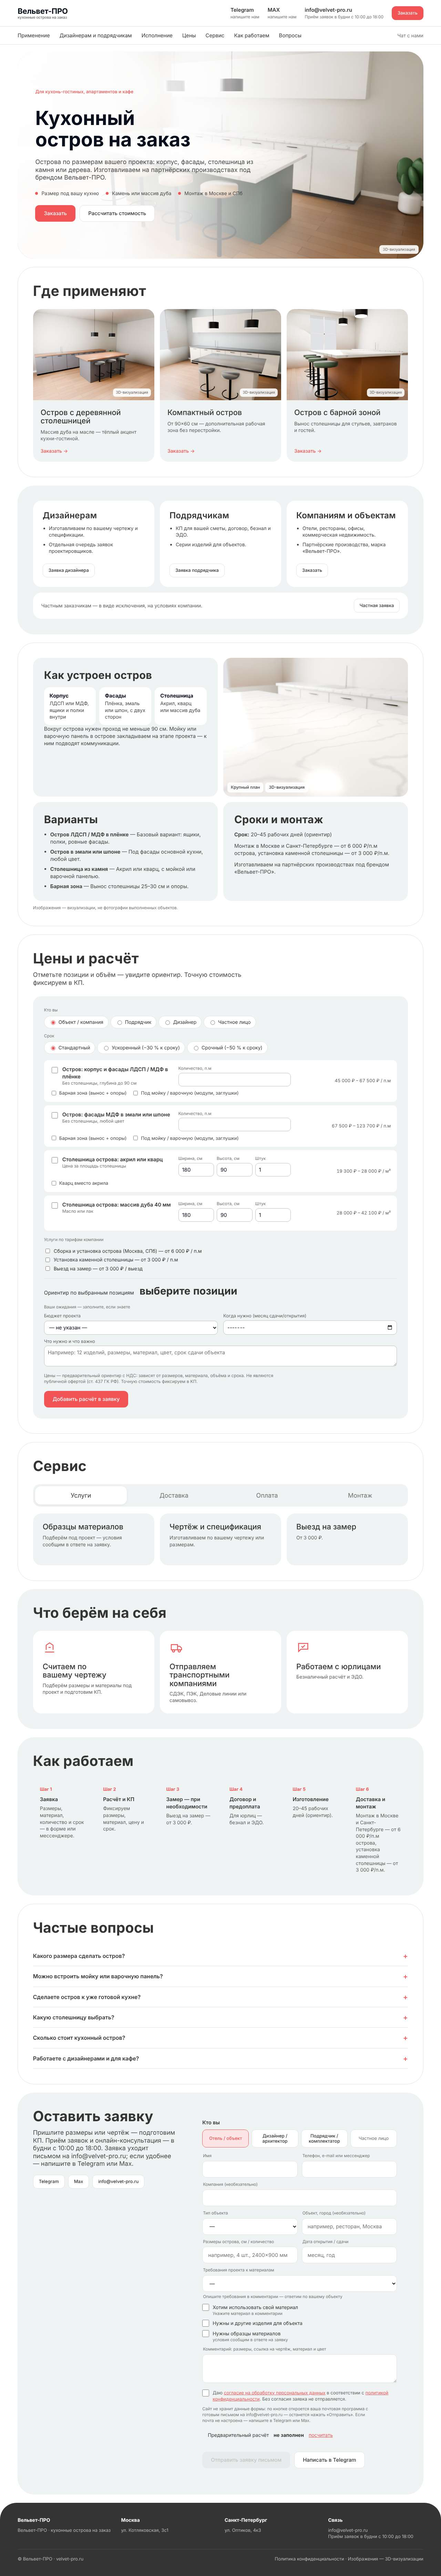
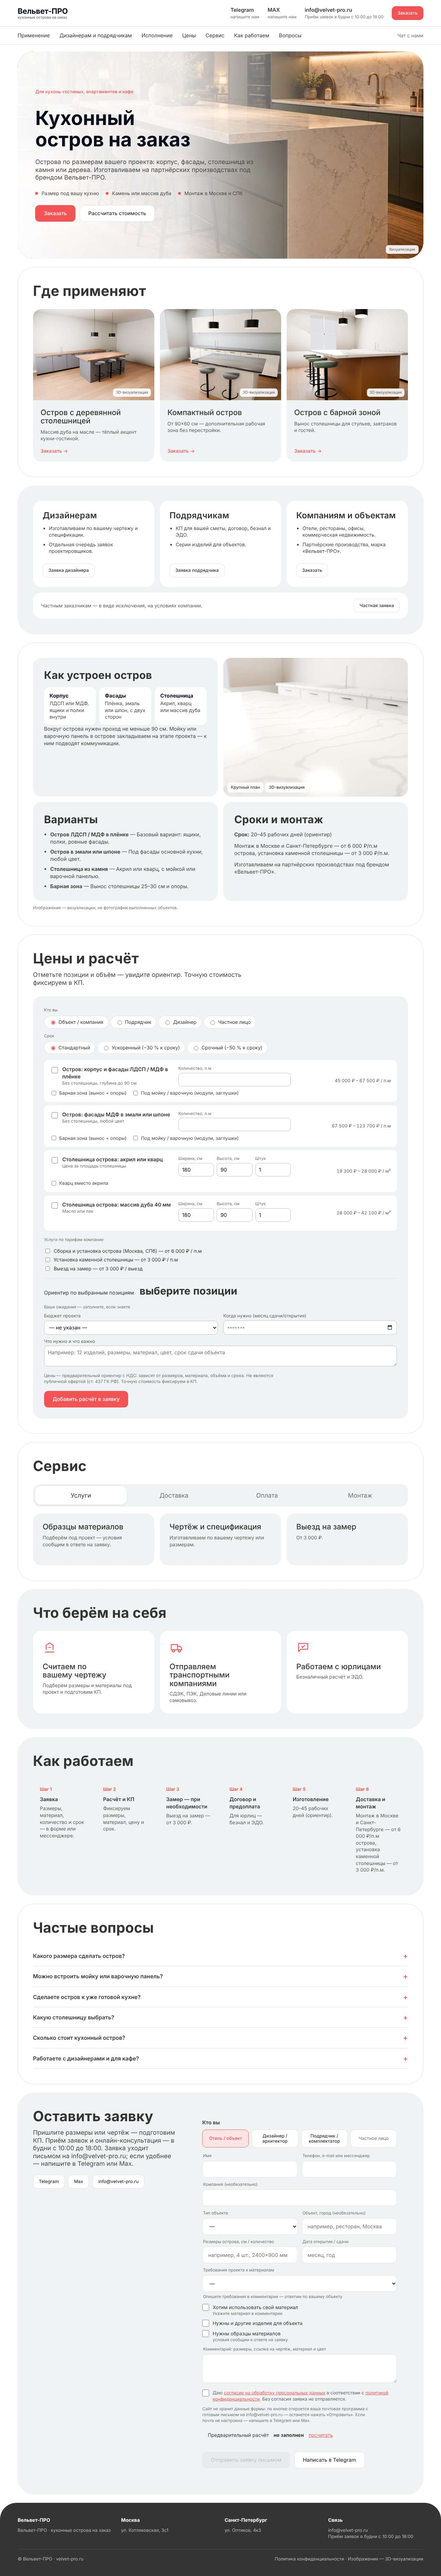
AI-визуализации: искусственный камень (5), кухонный остров (hero)

Changed region(s): [[0.3438, 0.0, 0.9688, 0.1249]]

diff --git a/stoleshnica-iz-iskusstvennogo-kamnya/index.html b/stoleshnica-iz-iskusstvennogo-kamnya/index.html
@@ -406,15 +406,15 @@ section.grey .vp-row{background:var(--g100,#F0F3F4)}
  <div class="head-row"><div><h2>Где применяют</h2></div></div>
  <div class="segs segs3">
  <a class="seg" href="#lead" data-type="object" data-goal="w1_cta_solutions">
-  <div class="ph"><img src="../img/ik-island.jpg" width="1120" height="840" alt="Кухонные острова — 3d-визуализация" loading="lazy"><span class="viz">3D-визуализация</span></div>
+  <div class="ph"><img src="../img/ai-ik-island.jpg" width="1200" height="896" alt="Кухонные острова — визуализация" loading="lazy"><span class="viz">Визуализация</span></div>
   <div class="tx"><h3>Кухонные острова</h3><p>Цельная столешница с мойкой, варочной панелью или барным выносом.</p><span class="go">Заказать →</span></div>
  </a>
  <a class="seg" href="#lead" data-type="object" data-goal="w1_cta_solutions">
-  <div class="ph"><img src="../img/ik-vanity.jpg" width="1120" height="840" alt="Санузлы — 3d-визуализация" loading="lazy"><span class="viz">3D-визуализация</span></div>
+  <div class="ph"><img src="../img/ai-ik-vanity.jpg" width="1200" height="896" alt="Санузлы — визуализация" loading="lazy"><span class="viz">Визуализация</span></div>
   <div class="tx"><h3>Санузлы</h3><p>Столешница с литой раковиной, без видимых швов.</p><span class="go">Заказать →</span></div>
  </a>
  <a class="seg" href="#lead" data-type="object" data-goal="w1_cta_solutions">
-  <div class="ph"><img src="../img/ik-reception.jpg" width="1120" height="840" alt="Ресепшен и барные стойки — 3d-визуализация" loading="lazy"><span class="viz">3D-визуализация</span></div>
+  <div class="ph"><img src="../img/ai-ik-reception.jpg" width="1200" height="896" alt="Ресепшен и барные стойки — визуализация" loading="lazy"><span class="viz">Визуализация</span></div>
   <div class="tx"><h3>Ресепшен и барные стойки</h3><p>Изогнутые формы и стойки для отелей, кафе и офисов.</p><span class="go">Заказать →</span></div>
  </a>
  </div>
@@ -443,7 +443,7 @@ section.grey .vp-row{background:var(--g100,#F0F3F4)}
     <div class="pnl"><h2>Из чего делаем</h2>
       <ul class="comp"><li><b>Акриловый камень</b>Незаметные стыки, изгибы, ремонт царапин шлифовкой</li><li><b>Кварцевый агломерат</b>Твёрже акрила, устойчив к царапинам и пятнам</li><li><b>Толщина</b>Стандарт 40 мм, по запросу до 60 мм</li></ul>
       <p>Марку и цвет камня подбираем под проект. Вырезы под мойку и варочную панель делаем на производстве по шаблону замера.</p></div>
-    <figure class="pnl-fig"><img src="../img/ik-detail.jpg" width="1120" height="840" alt="Из чего делаем — 3d-визуализация" loading="lazy"><figcaption><span class="tag">Крупный план</span><span class="tag">3D-визуализация</span></figcaption></figure>
+    <figure class="pnl-fig"><img src="../img/ai-ik-detail.jpg" width="1200" height="896" alt="Из чего делаем — визуализация" loading="lazy"><figcaption><span class="tag">Крупный план</span><span class="tag">Визуализация</span></figcaption></figure>
     <div class="pnl"><h2>Варианты</h2><ul class="opts"><li><b>Кухонная столешница</b> — Глубина 600 мм, плинтус и вырезы под технику.</li><li><b>Столешница острова или стойки</b> — Глубина и форма по проекту, считаем по площади.</li><li><b>Литая мойка или раковина</b> — Из того же камня, вклеивается без щели.</li><li><b>Матовая поверхность</b> — Меньше бликов, цена выше примерно на четверть.</li></ul></div>
     <div class="pnl"><h2>Сроки и монтаж</h2>
       <p><b>Срок:</b> 7–14 рабочих дней после замера (ориентир)</p>

diff --git a/kuhonnyy-ostrov/index.html b/kuhonnyy-ostrov/index.html
@@ -9,7 +9,7 @@
 <meta property="og:title" content="Кухонный остров на заказ — камень, дерево, бар">
 <meta property="og:description" content="Кухонные острова по размерам проекта: корпус ЛДСП, МДФ или эмаль, столешница из камня или массива, барная зона. Ориентир цены онлайн, монтаж в Москве и СПб.">
 <meta property="og:type" content="website">
-<meta property="og:image" content="../img/ko-hero.jpg">
+<meta property="og:image" content="../img/ai-ko-hero.jpg">
 <meta http-equiv="Content-Security-Policy" content="default-src 'self'; script-src 'self' 'unsafe-inline' https://mc.yandex.ru https://mc.yandex.com; connect-src 'self' https://mc.yandex.ru https://mc.yandex.com; img-src 'self' data: https://mc.yandex.ru https://mc.yandex.com; style-src 'self' 'unsafe-inline'; font-src 'self'; frame-src https://mc.yandex.ru https://mc.yandex.com; form-action 'self'; base-uri 'self'">
 <!-- Тестовая страница: noindex, без канонической ссылки (ГЕЙТ 1, решение 5). Шрифт — системный стек, IP посетителя не уходит за рубеж (legal.md) -->
 
@@ -382,8 +382,8 @@ section.grey .vp-row{background:var(--g100,#F0F3F4)}
 <!-- 1. Hero -->
 <section class="hero" id="top">
  <div class="hero-img">
- <img src="../img/ko-hero.jpg" width="1120" height="840" alt="Кухонный остров на заказ — 3d-визуализация" fetchpriority="high">
- <span class="viz">3D-визуализация</span>
+ <img src="../img/ai-ko-hero.jpg" width="1200" height="896" alt="Кухонный остров на заказ — визуализация" fetchpriority="high">
+ <span class="viz">Визуализация</span>
  </div>
  <div class="hero-body">
  <p class="eyebrow">Для кухонь-гостиных, апартаментов и кафе</p>
